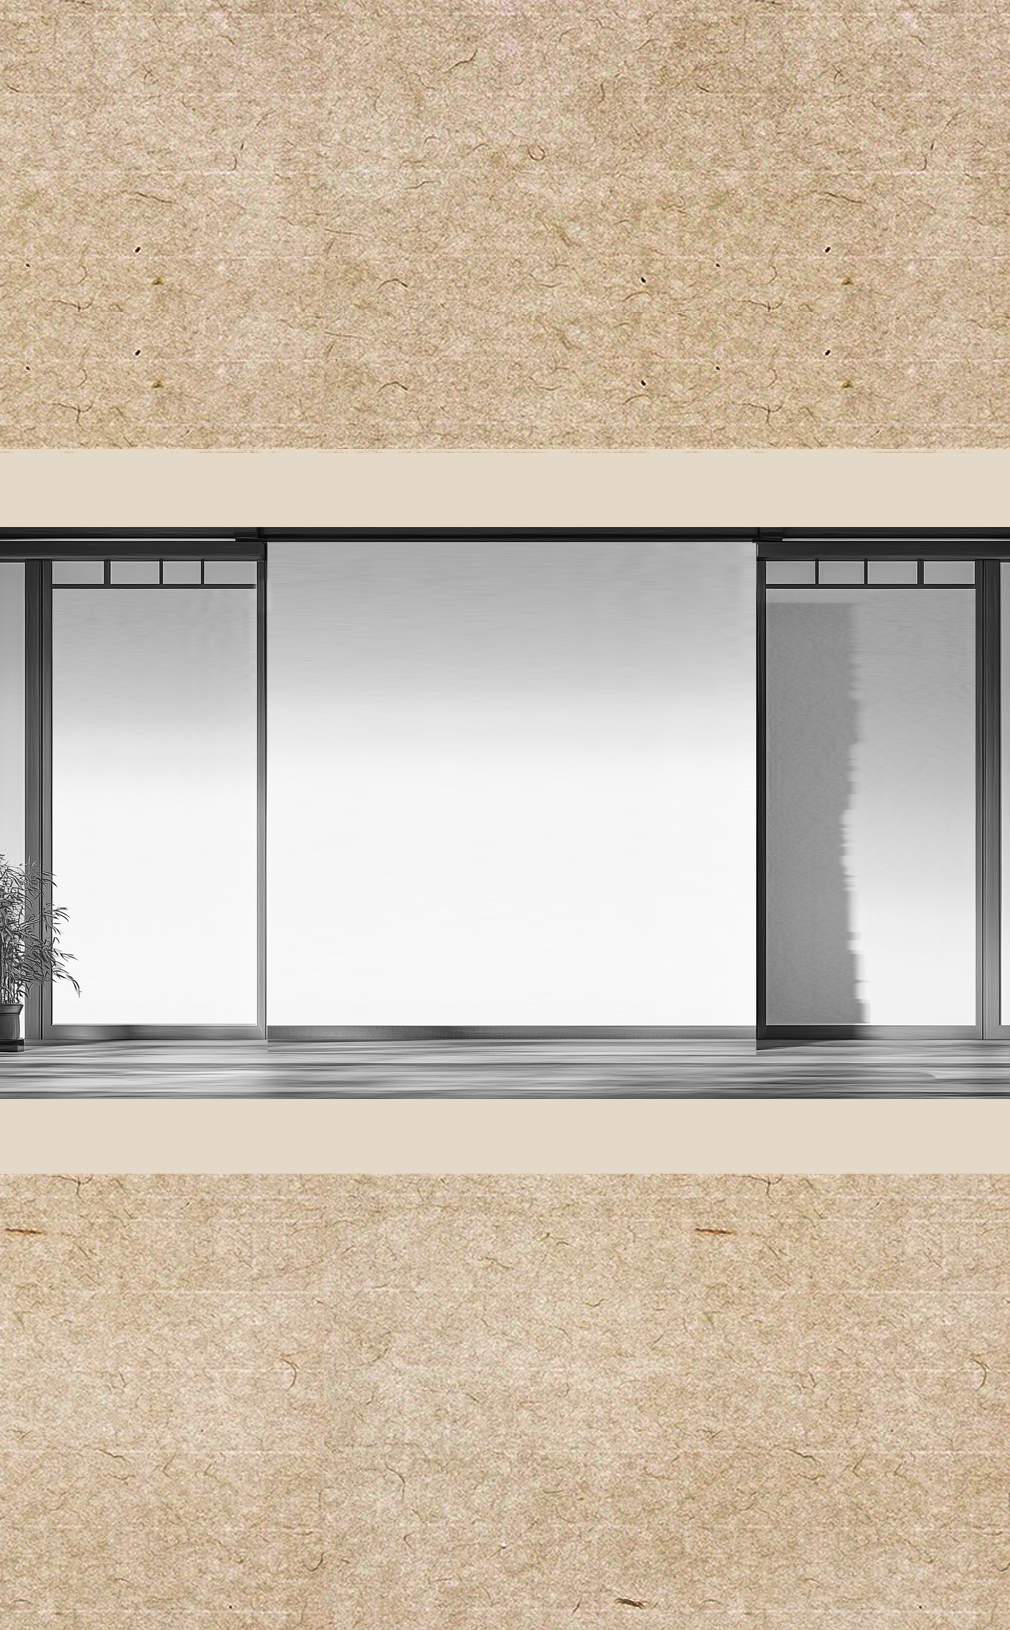
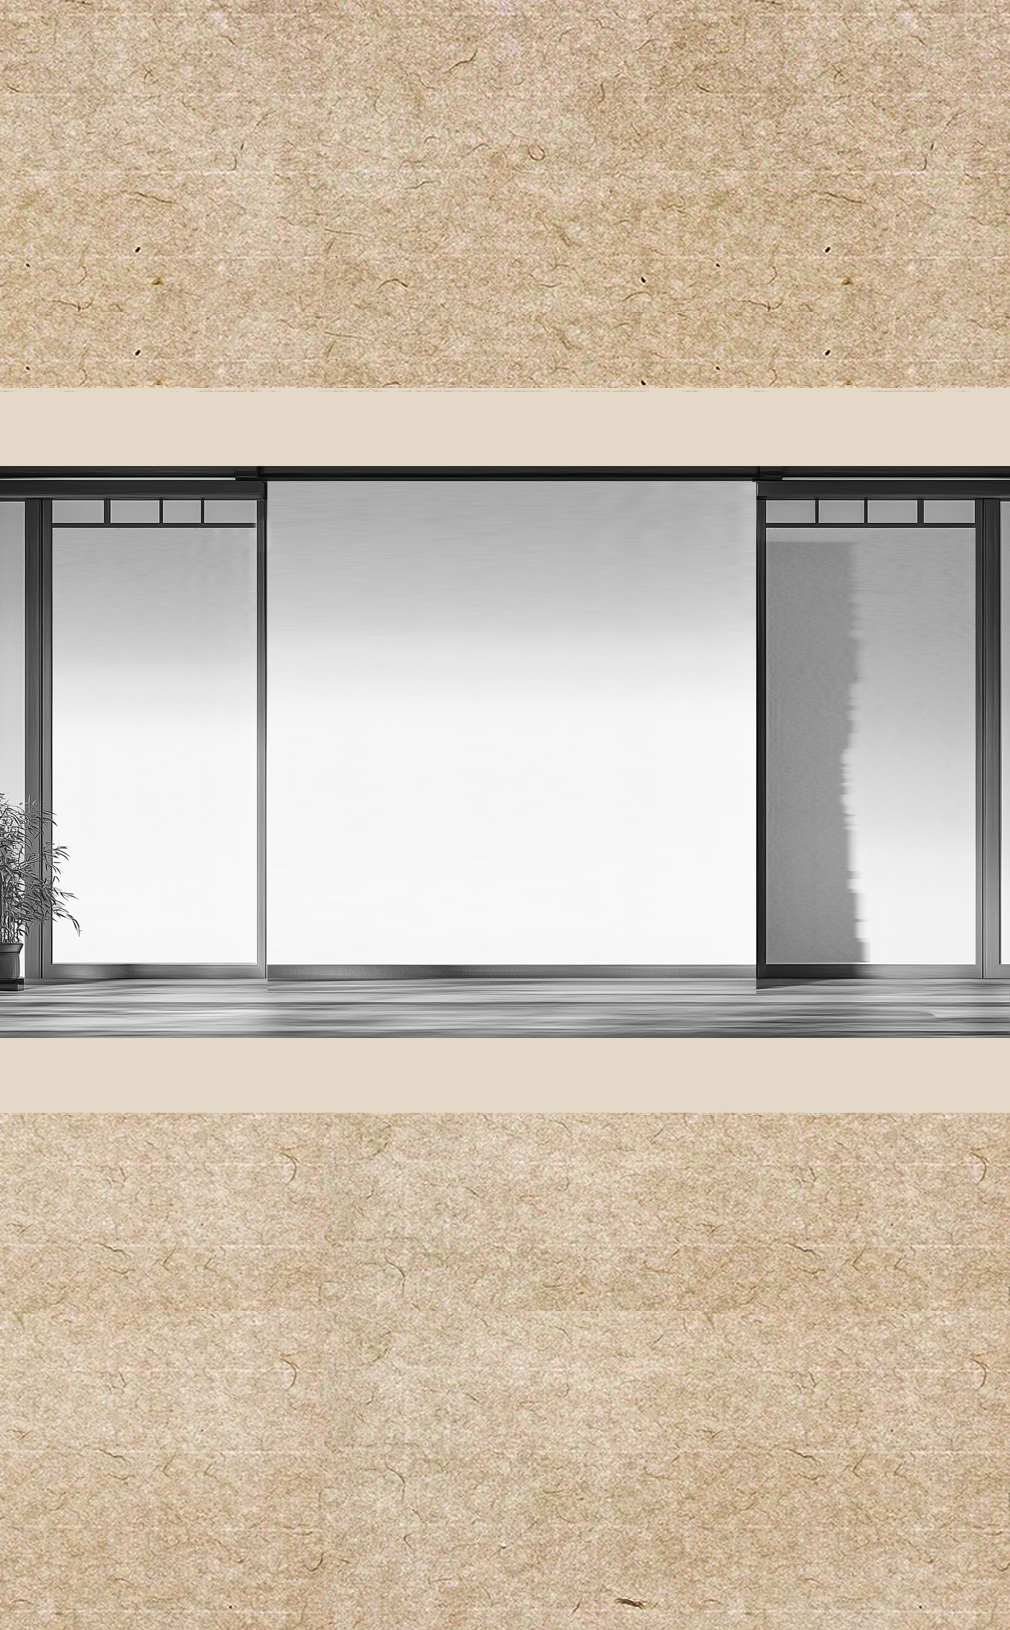
222

Changed region(s): [[0.0, 0.4294, 1.0, 0.8282], [0.0, 0.2147, 1.0, 0.4908], [0.9515, 0.4294, 0.9822, 0.4908]]

diff --git a/src/css/style.css b/src/css/style.css
@@ -316,153 +316,6 @@ to help you out.
 	background-image: url(../images/homepagerain.png);
 }
 
-.character-container {
-	display: flex;
-	justify-content: center;
-	align-items: center;
-	gap: clamp(10px, 1vw, 15px);
-	padding: clamp(10px, 1vw, 15px);
-	width: 100%;
-	height: 100vh;
-	flex-wrap: nowrap;
-	overflow-x: hidden;
-	background-image: url(../images/peoplebackground.png);
-	background-size: 100% 100%;
-	position: relative;
-}
-
-.character-card {
-	flex: 0 1 clamp(180px, 15vw, 200px);
-	position: relative;
-	transition: all 0.5s ease;
-	height: 400px;
-}
-
-.card-normal {
-	background: rgba(178, 226, 248, 0.8);
-	padding: 15px;
-	border-radius: 20px;
-	display: flex;
-	flex-direction: column;
-	align-items: center;
-	box-shadow: 10px 10px 20px rgba(0, 0, 0, 0.5);
-	transition: all 0.5s ease;
-	height: 100%;
-	justify-content: center;
-}
-
-.character-icon {
-	width: clamp(100px, 10vw, 120px);
-	height: clamp(180px, 20vw, 240px);
-	object-fit: contain;
-}
-
-.character-name {
-	margin-top: 15px;
-	font-size: clamp(16px, 1.8vw, 20px);
-}
-
-.card-detail {
-	position: absolute;
-	top: 50%;
-	left: 50%;
-	transform: translate(-50%, -50%);
-	opacity: 0;
-	visibility: hidden;
-	transition: all 0.5s ease;
-	width: clamp(400px, 40vw, 600px);
-	z-index: 1;
-}
-
-.detail-content {
-	background: rgba(178, 226, 248, 0.8);
-	border-radius: 20px;
-	padding: 20px;
-	display: flex;
-	gap: 20px;
-	box-shadow: 10px 10px 20px rgba(0, 0, 0, 0.5);
-	height: 400px;
-}
-
-.character-full {
-	width: clamp(150px, 15vw, 180px);
-	height: 100%;
-	object-fit: contain;
-}
-
-.character-text {
-	flex: 1;
-	padding: 15px;
-	display: flex;
-	flex-direction: column;
-	justify-content: center;
-}
-
-.character-text h3 {
-	margin-bottom: 15px;
-	font-size: clamp(20px, 2.2vw, 26px);
-	text-align: center;
-}
-
-.character-text p {
-	line-height: 1.8;
-	font-size: clamp(14px, 1.6vw, 18px);
-	text-align: justify;
-}
-
-.character-container:has(.character-card:hover) .character-card:not(:hover) {
-	flex-basis: clamp(80px, 8vw, 100px);
-}
-
-
-.character-card:hover {
-	flex-basis: clamp(400px, 50vw, 600px);
-	z-index: 2;
-}
-
-.character-card:hover .card-normal {
-	opacity: 0;
-	visibility: hidden;
-}
-
-.character-card:hover .card-detail {
-	opacity: 1;
-	visibility: visible;
-}
-
-.character-card:first-child .card-detail {
-	left: 0;
-	transform: translate(0, -50%);
-}
-
-.character-card:last-child .card-detail {
-	left: auto;
-	right: 0;
-	transform: translate(0, -50%);
-}
-
-.citihome {
-	height: 50px;
-	width: 150px;
-	top: 10px;
-	left: 10px;
-	background-image: url(../images/homepage.png);
-	background-size: cover;
-	background-position: center;
-	background-repeat: no-repeat;
-	background-color: transparent;
-	position: absolute;
-	border: none;
-	color: #fff;
-	padding-bottom: 9px;
-	font-size: 18px;
-	font-family: "Jaini Purva", system-ui;
-	letter-spacing: 1px;
-}
-
-.citihome:hover {
-	transform: scale(1.1);
-}
 
 
 @media screen and (max-width: 768px) {

diff --git a/src/css/homepage.css b/src/css/homepage.css
@@ -80,7 +80,7 @@
 .mainhomepage {
     position: relative;
     width: 100%;
-    top: 33%;
+    top: 29%;
     height: 35%;
     z-index: 10;
 }
